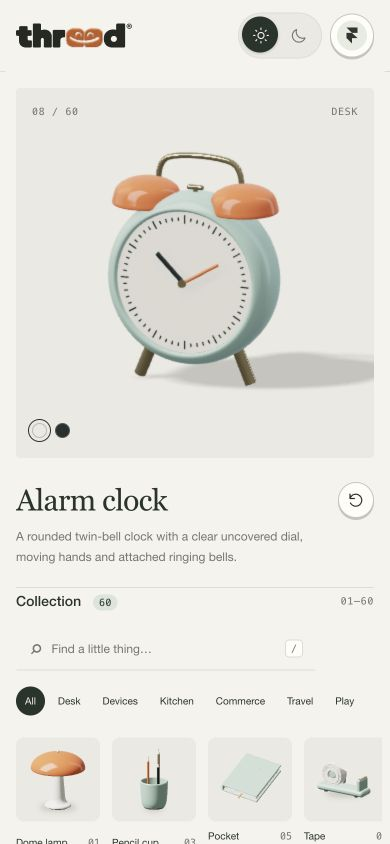
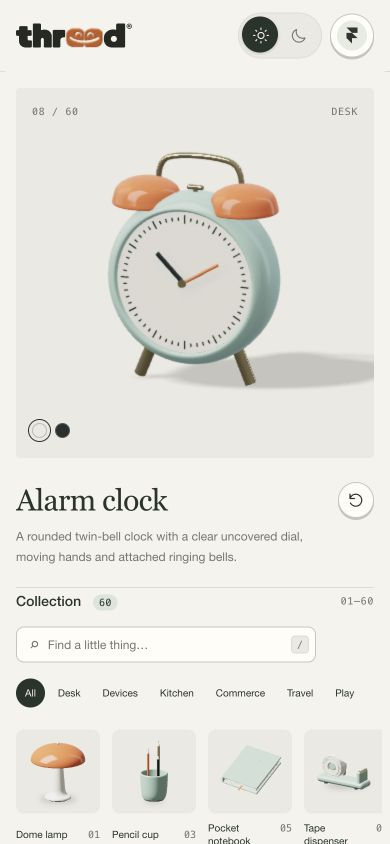
Preserve latest search and divider refinements with refreshed proof

diff --git a/site/guide.html b/site/guide.html
@@ -6,7 +6,7 @@
 <link id="site-icon" rel="icon" type="image/svg+xml" href="assets/brand/favicon-light.svg?v=1">
 <script>document.getElementById("site-icon").href="assets/brand/favicon-"+document.documentElement.dataset.theme+".svg?v=1";</script>
 <link rel="stylesheet" href="viewer/tokens.css?v=8-min10">
-<link rel="stylesheet" href="viewer/studio.css?v=0.14.2-bleed">
+<link rel="stylesheet" href="viewer/studio.css?v=0.14.6-fieldradius">
 <link rel="stylesheet" href="viewer/guide.css?v=4-ds"></head><body><!-- component:header action=back --><header class="topbar"><a class="wordmark" href="./" aria-label="threed® home"><span class="brand-wordmark"><img class="brand-logo brand-logo-light" src="assets/brand/threed-smile-ink.svg" alt="threed®"><img class="brand-logo brand-logo-dark" src="assets/brand/threed-smile-ivory.svg" alt=""><img class="brand-frame brand-frame-light" src="assets/brand/threed-smile-frame-ink.svg" alt=""><img class="brand-frame brand-frame-dark" src="assets/brand/threed-smile-frame-ivory.svg" alt=""></span><span class="brand-mascot" aria-hidden="true"><canvas id="brand-canvas" tabindex="-1"></canvas></span></a><div class="edition">OBJECT LIBRARY <span>VOL. 01</span></div><div class="header-actions"><div class="theme-switch" role="group" aria-label="Appearance"><button type="button" data-theme-choice="light" aria-label="Light mode" title="Light mode" aria-pressed="true"><svg width="18" height="18" viewBox="0 0 24 24" fill="none" stroke="currentColor" stroke-width="1.5" stroke-linecap="round" aria-hidden="true"><circle cx="12" cy="12" r="4"/><path d="M12 2v2M12 20v2M2 12h2M20 12h2M5 5l1.4 1.4M17.6 17.6L19 19M5 19l1.4-1.4M17.6 6.4L19 5"/></svg></button><button type="button" data-theme-choice="dark" aria-label="Dark mode" title="Dark mode" aria-pressed="false"><svg width="18" height="18" viewBox="0 0 24 24" fill="none" stroke="currentColor" stroke-width="1.5" stroke-linejoin="round" aria-hidden="true"><path d="M20 15.2A8.7 8.7 0 0 1 8.8 4a8.7 8.7 0 1 0 11.2 11.2Z"/></svg></button></div><a class="guide-button btn-secondary" href="./" aria-label="Back to the studio"><span class="guide-icon-backdrop" aria-hidden="true"><svg width="18" height="18" viewBox="0 0 24 24" fill="none" stroke="currentColor" stroke-width="1.6" stroke-linecap="round" stroke-linejoin="round" aria-hidden="true"><path d="M19 12H5m6-6-6 6 6 6"/></svg></span><span>Back to the studio</span></a></div></header><!-- /component:header -->
 <main class="guide-main">
  <section class="guide-intro" aria-labelledby="guide-title"><div><h1 id="guide-title" aria-label="A little threed®. Anywhere you build.">A little <span class="wordmark guide-title-brand" role="img" aria-label="threed®"><span class="brand-wordmark"><img class="brand-logo brand-logo-light" src="assets/brand/threed-smile-ink.svg" alt=""><img class="brand-logo brand-logo-dark" src="assets/brand/threed-smile-ivory.svg" alt=""><img class="brand-frame brand-frame-light" src="assets/brand/threed-smile-frame-ink.svg" alt=""><img class="brand-frame brand-frame-dark" src="assets/brand/threed-smile-frame-ivory.svg" alt=""></span><span class="brand-mascot" aria-hidden="true"><canvas data-brand-canvas tabindex="-1"></canvas></span></span>.<br>Anywhere you build.</h1><p>From a still illustration to a playful 3D object. Here’s how to bring your colors, materials and motion into your next project.</p><nav class="platform-jumps" aria-label="Choose your platform"><a href="#framer"><img class="framer-mark" src="assets/platforms/framer.svg" alt="" width="18" height="24">Framer</a><a href="#webflow"><img class="webflow-jump logo-on-light" src="assets/platforms/webflow-light.svg" alt="Webflow" width="92" height="24"><img class="webflow-jump logo-on-dark" src="assets/platforms/webflow-dark.svg" alt="Webflow" width="92" height="24"></a><a href="#website"><svg width="22" height="22" viewBox="0 0 24 24" fill="none" stroke="currentColor" stroke-width="1.5" stroke-linecap="round" stroke-linejoin="round" aria-hidden="true"><path d="m8 7-5 5 5 5M16 7l5 5-5 5M14 4l-4 16"/></svg>Your website</a></nav></div><figure class="guide-object"><img id="guide-object-image" src="renders/rangefinder-camera.png" width="500" height="500" alt="Studio camera 3D illustration"><figcaption><span id="guide-object-label">Studio camera</span><a class="studio-object-link" href="./#rangefinder-camera">Make it yours</a></figcaption></figure></section>

diff --git a/site/design-system.html b/site/design-system.html
@@ -6,7 +6,7 @@
 <link id="site-icon" rel="icon" type="image/svg+xml" href="assets/brand/favicon-light.svg?v=1">
 <script>document.getElementById("site-icon").href="assets/brand/favicon-"+document.documentElement.dataset.theme+".svg?v=1";</script>
 <link rel="stylesheet" href="viewer/tokens.css?v=8-min10">
-<link rel="stylesheet" href="viewer/studio.css?v=0.14.2-bleed">
+<link rel="stylesheet" href="viewer/studio.css?v=0.14.6-fieldradius">
 <link rel="stylesheet" href="viewer/guide.css?v=4-ds">
 <link rel="stylesheet" href="viewer/buttons.css?v=2-ds">
 <link rel="stylesheet" href="viewer/design-system.css?v=8">
@@ -85,7 +85,7 @@
     <div class="ds-specimen"><label class="switch"><input type="checkbox" checked><span class="switch-track"></span>Mouse follow</label><label class="switch"><input type="checkbox"><span class="switch-track"></span>Exploded view</label><code>.switch</code></div>
     <div class="ds-specimen ds-wide"><label class="range-row"><span>Strength <output id="ds-range-out">3.0</output></span><input id="ds-range" type="range" min="0" max="7" step=".1" value="3"></label><code>.range-row</code></div>
     <div class="ds-specimen ds-wide"><label class="select-row">Material finish<span class="select-control"><select><option>Object original</option><option>Satin ceramic</option><option>Matte clay</option></select><svg class="select-chevron" width="14" height="14" viewBox="0 0 14 14" fill="none" stroke="currentColor" stroke-width="1.5" stroke-linecap="round" stroke-linejoin="round" aria-hidden="true"><path d="m3 5 4 4 4-4"/></svg></span></label><code>.select-row</code></div>
-    <div class="ds-specimen ds-wide"><label class="search"><span aria-hidden="true">⌕</span><input type="search" value="lamp" aria-label="Search example"><span class="search-count">2 of 60</span><kbd class="search-key" aria-hidden="true">/</kbd></label><code>.search — "/" focuses it, live count while typing</code></div>
+    <div class="ds-specimen ds-wide"><label class="search"><span aria-hidden="true">⌕</span><input type="search" value="lamp" aria-label="Search example"><span class="search-count">2 of 60</span><kbd class="search-key" aria-hidden="true">/</kbd></label><code>.search — field (8px corners, like the selects) with the quiet-control border; "/" focuses it, live count while typing</code></div>
    </section>
 
    <section id="selection" class="guide-section">

diff --git a/site/index.html b/site/index.html
@@ -8,7 +8,7 @@
 <link id="site-icon" rel="icon" type="image/svg+xml" href="assets/brand/favicon-light.svg?v=1">
 <script>document.getElementById("site-icon").href="assets/brand/favicon-"+document.documentElement.dataset.theme+".svg?v=1";</script>
 <link rel="stylesheet" href="viewer/tokens.css?v=8-min10">
-<link rel="stylesheet" href="viewer/studio.css?v=0.14.2-bleed">
+<link rel="stylesheet" href="viewer/studio.css?v=0.14.6-fieldradius">
 </head>
 <body>
 <!-- component:header action=guide --><header class="topbar"><a class="wordmark" href="./" aria-label="threed® home"><span class="brand-wordmark"><img class="brand-logo brand-logo-light" src="assets/brand/threed-smile-ink.svg" alt="threed®"><img class="brand-logo brand-logo-dark" src="assets/brand/threed-smile-ivory.svg" alt=""><img class="brand-frame brand-frame-light" src="assets/brand/threed-smile-frame-ink.svg" alt=""><img class="brand-frame brand-frame-dark" src="assets/brand/threed-smile-frame-ivory.svg" alt=""></span><span class="brand-mascot" aria-hidden="true"><canvas id="brand-canvas" tabindex="-1"></canvas></span></a><div class="edition">OBJECT LIBRARY <span>VOL. 01</span></div><div class="header-actions"><div class="theme-switch" role="group" aria-label="Appearance"><button type="button" data-theme-choice="light" aria-label="Light mode" title="Light mode" aria-pressed="true"><svg width="18" height="18" viewBox="0 0 24 24" fill="none" stroke="currentColor" stroke-width="1.5" stroke-linecap="round" aria-hidden="true"><circle cx="12" cy="12" r="4"/><path d="M12 2v2M12 20v2M2 12h2M20 12h2M5 5l1.4 1.4M17.6 17.6L19 19M5 19l1.4-1.4M17.6 6.4L19 5"/></svg></button><button type="button" data-theme-choice="dark" aria-label="Dark mode" title="Dark mode" aria-pressed="false"><svg width="18" height="18" viewBox="0 0 24 24" fill="none" stroke="currentColor" stroke-width="1.5" stroke-linejoin="round" aria-hidden="true"><path d="M20 15.2A8.7 8.7 0 0 1 8.8 4a8.7 8.7 0 1 0 11.2 11.2Z"/></svg></button></div><a class="guide-button btn-secondary" href="guide.html" aria-label="Read the guide"><span class="platform-guide-marks" aria-hidden="true"><img class="platform-framer-mark" src="assets/platforms/framer.svg" width="10" height="16" alt=""></span><span>Read the guide</span></a></div></header><!-- /component:header -->

diff --git a/site/viewer/studio.css b/site/viewer/studio.css
@@ -365,5 +365,17 @@ footer .footer-link,.ds-footer-link{text-transform:uppercase;display:inline-flex
  .collection,.properties{--col-pad:var(--space-20)}
  .collection{padding-left:var(--col-pad);padding-right:var(--col-pad)}
  .properties{padding-left:var(--col-pad);padding-right:var(--col-pad)}
- .search,.properties .property-section{margin-left:calc(-1 * var(--col-pad));margin-right:calc(-1 * var(--col-pad));padding-left:var(--col-pad);padding-right:var(--col-pad)}
+ .properties .property-section{margin-left:calc(-1 * var(--col-pad));margin-right:calc(-1 * var(--col-pad));padding-left:var(--col-pad);padding-right:var(--col-pad)}
 }
+
+/* Search field: a pill on the paper surface with the shared quiet-control border (no underline). */
+.search{gap:var(--space-8);min-height:36px;margin:0;padding:var(--space-2) var(--space-6) var(--space-2) var(--space-12);border:1px solid var(--secondary-border);border-radius:var(--radius-sm);background:var(--paper);transition:border-color var(--dur-fast) ease}
+.search:hover{border-color:var(--secondary-hover-border)}
+.search:focus-within{border-color:var(--ink)}
+.search span[aria-hidden="true"]:first-child{font-size:var(--fs-lg);line-height:1}
+.search input{padding:var(--space-6) 0}
+.search input:focus-visible{outline:none}
+.search-key{background:var(--stage);border-radius:var(--radius-xs)}
+@media(prefers-reduced-motion:reduce){.search{transition:none}}
+/* Fields (search, selects) share one corner radius. */
+.select-row select,.search{border-radius:var(--radius-sm)}

diff --git a/site/AGENTS.md b/site/AGENTS.md
@@ -151,5 +151,7 @@ Badge component: .badge (leaf fill, mono, pill) is the one style for count badge
 
 Final avatar selection supersedes exploration directions: the owner approved the exact green-background blue-crewneck portrait and the exact lavender-background yellow-beanie floating head. Preserve both unchanged as branding/avatars/nayeemur-portrait-green-final.png and nayeemur-beanie-pastel-final.png. The green portrait is the footer default (assets/brand/nayeemur-r-s-3d.png); the beanie is an approved alternative (assets/brand/nayeemur-r-s-3d-beanie.png). Production files are resized derivatives only; do not redraw either approved image.
 
-Full-bleed dividers: horizontal lines inside the side columns (search underline, settings section dividers) run edge to edge between the frame line and the column divider; content keeps 20px padding (--col-pad). Applies at 561px and up.
+Full-bleed dividers: horizontal lines inside the side columns (settings section dividers) run edge to edge between the frame line and the column divider; content keeps 20px padding (--col-pad). Applies at 561px and up.
 Motion control has no visible label (tried beside, above, and as a badge; the user removed it). It keeps aria-label="Motion" for screen readers.
+Search is a field, not an underline: .search is a field with --radius-sm (8px, same as the selects; the pill was too round) on the paper surface with --secondary-border (hover --secondary-hover-border, focus ink), magnifier left, "/" key and live count right.
+Fields (search and select dropdowns) share --radius-sm (8px).
